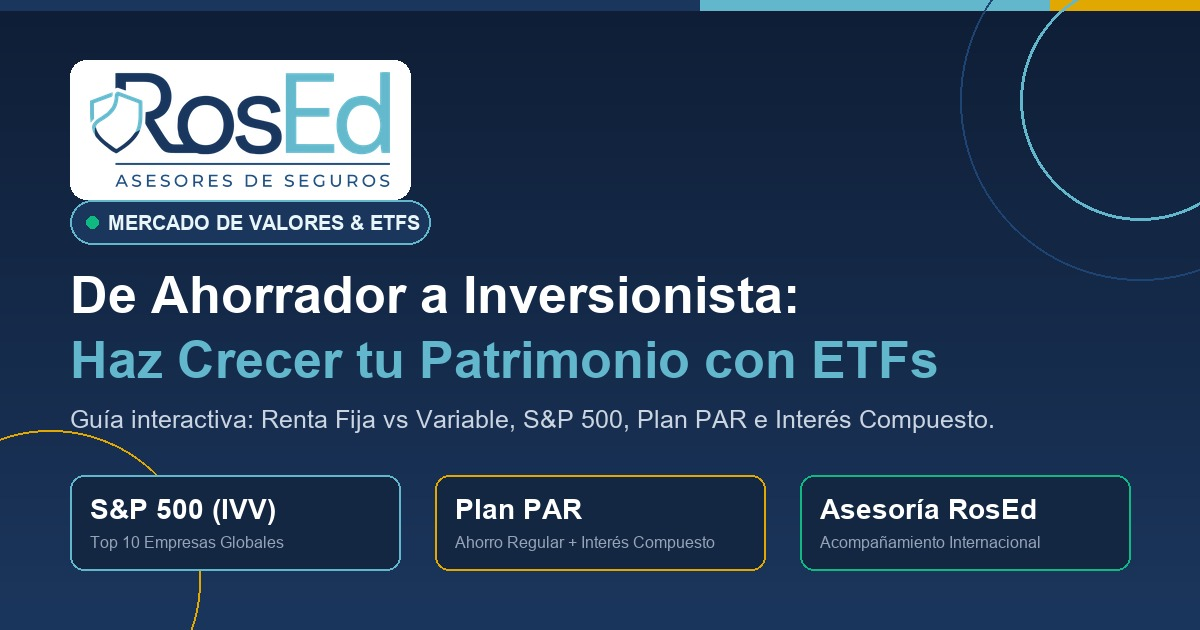
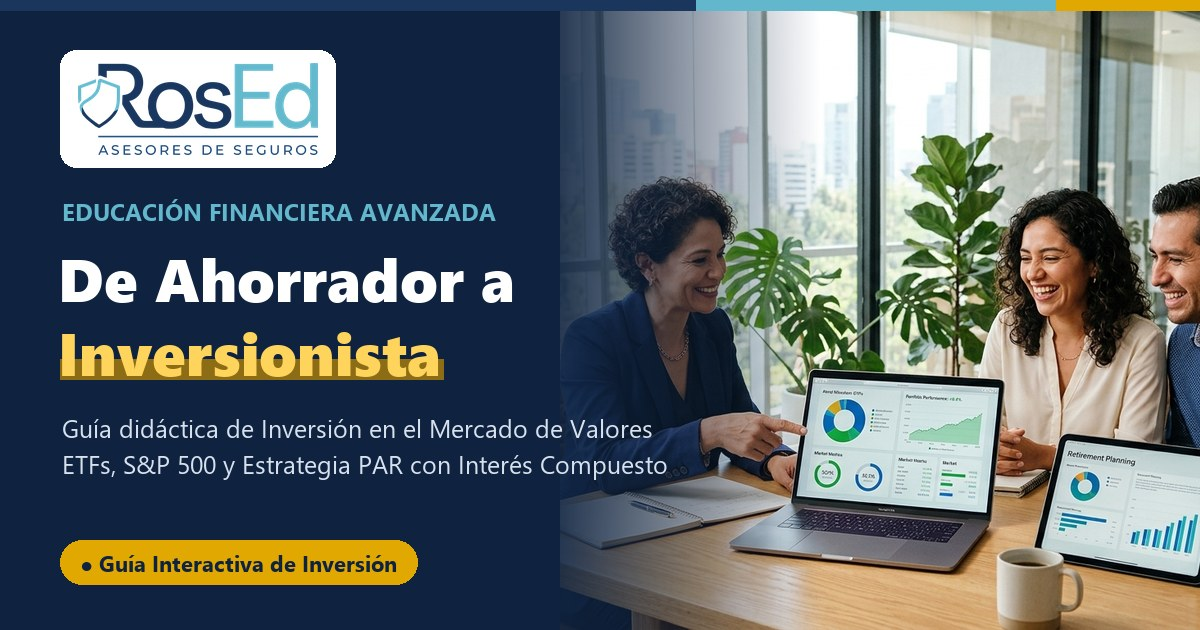
feat: agregar landing interactiva de Induccion al Mercado de Valores y ETFs

diff --git a/public/Mercado-Valores/index.html b/public/Mercado-Valores/index.html
@@ -8,18 +8,20 @@
 
   <!-- Open Graph para vista previa enriquecida en WhatsApp y Redes -->
   <meta property="og:site_name" content="RosEd Asesores de Seguros">
-  <meta property="og:title" content="Educación Financiera: Mercado de Valores & ETFs | RosEd">
-  <meta property="og:description" content="De Ahorrador a Inversionista: Haz crecer tu patrimonio con ETFs, S&P 500, Plan de Ahorro Regular (PAR) y simulador interactivo de interés compuesto.">
-  <meta property="og:image" content="og-mercado-valores.jpg">
-  <meta property="og:image:secure_url" content="og-mercado-valores.jpg">
+  <meta property="og:title" content="De Ahorrador a Inversionista: Mercado de Valores & ETFs | RosEd">
+  <meta property="og:description" content="Guía interactiva: Renta Fija vs Variable, S&P 500, Plan de Ahorro Regular (PAR), interés compuesto y simuladores.">
+  <meta property="og:image" content="https://www.rosedasesores.com/Mercado-Valores/og-mercado-valores.jpg">
+  <meta property="og:image:secure_url" content="https://www.rosedasesores.com/Mercado-Valores/og-mercado-valores.jpg">
   <meta property="og:image:type" content="image/jpeg">
   <meta property="og:image:width" content="1200">
   <meta property="og:image:height" content="630">
+  <meta property="og:url" content="https://www.rosedasesores.com/Mercado-Valores/">
   <meta property="og:type" content="website">
+  <link rel="image_src" href="https://www.rosedasesores.com/Mercado-Valores/og-mercado-valores.jpg">
   <meta name="twitter:card" content="summary_large_image">
-  <meta name="twitter:title" content="Educación Financiera: Mercado de Valores & ETFs | RosEd">
-  <meta name="twitter:description" content="Aprende a invertir en el Mercado de Valores: Renta Fija vs Variable, S&P 500 y Estrategia PAR con simuladores interactivos.">
-  <meta name="twitter:image" content="og-mercado-valores.jpg">
+  <meta name="twitter:title" content="De Ahorrador a Inversionista: Mercado de Valores & ETFs | RosEd">
+  <meta name="twitter:description" content="Guía interactiva: Renta Fija vs Variable, S&P 500, Plan de Ahorro Regular (PAR), interés compuesto y simuladores.">
+  <meta name="twitter:image" content="https://www.rosedasesores.com/Mercado-Valores/og-mercado-valores.jpg">
   <meta name="theme-color" content="#1B365D">
 
   <!-- Tipografía Oficial Google Fonts -->

diff --git a/public/Mercado-Valores/landing_mercado_valores.html b/public/Mercado-Valores/landing_mercado_valores.html
@@ -8,18 +8,20 @@
 
   <!-- Open Graph para vista previa enriquecida en WhatsApp y Redes -->
   <meta property="og:site_name" content="RosEd Asesores de Seguros">
-  <meta property="og:title" content="Educación Financiera: Mercado de Valores & ETFs | RosEd">
-  <meta property="og:description" content="De Ahorrador a Inversionista: Haz crecer tu patrimonio con ETFs, S&P 500, Plan de Ahorro Regular (PAR) y simulador interactivo de interés compuesto.">
-  <meta property="og:image" content="og-mercado-valores.jpg">
-  <meta property="og:image:secure_url" content="og-mercado-valores.jpg">
+  <meta property="og:title" content="De Ahorrador a Inversionista: Mercado de Valores & ETFs | RosEd">
+  <meta property="og:description" content="Guía interactiva: Renta Fija vs Variable, S&P 500, Plan de Ahorro Regular (PAR), interés compuesto y simuladores.">
+  <meta property="og:image" content="https://www.rosedasesores.com/Mercado-Valores/og-mercado-valores.jpg">
+  <meta property="og:image:secure_url" content="https://www.rosedasesores.com/Mercado-Valores/og-mercado-valores.jpg">
   <meta property="og:image:type" content="image/jpeg">
   <meta property="og:image:width" content="1200">
   <meta property="og:image:height" content="630">
+  <meta property="og:url" content="https://www.rosedasesores.com/Mercado-Valores/">
   <meta property="og:type" content="website">
+  <link rel="image_src" href="https://www.rosedasesores.com/Mercado-Valores/og-mercado-valores.jpg">
   <meta name="twitter:card" content="summary_large_image">
-  <meta name="twitter:title" content="Educación Financiera: Mercado de Valores & ETFs | RosEd">
-  <meta name="twitter:description" content="Aprende a invertir en el Mercado de Valores: Renta Fija vs Variable, S&P 500 y Estrategia PAR con simuladores interactivos.">
-  <meta name="twitter:image" content="og-mercado-valores.jpg">
+  <meta name="twitter:title" content="De Ahorrador a Inversionista: Mercado de Valores & ETFs | RosEd">
+  <meta name="twitter:description" content="Guía interactiva: Renta Fija vs Variable, S&P 500, Plan de Ahorro Regular (PAR), interés compuesto y simuladores.">
+  <meta name="twitter:image" content="https://www.rosedasesores.com/Mercado-Valores/og-mercado-valores.jpg">
   <meta name="theme-color" content="#1B365D">
 
   <!-- Tipografía Oficial Google Fonts -->

diff --git a/public/Mercado_Valores/index.html b/public/Mercado_Valores/index.html
@@ -8,18 +8,20 @@
 
   <!-- Open Graph para vista previa enriquecida en WhatsApp y Redes -->
   <meta property="og:site_name" content="RosEd Asesores de Seguros">
-  <meta property="og:title" content="Educación Financiera: Mercado de Valores & ETFs | RosEd">
-  <meta property="og:description" content="De Ahorrador a Inversionista: Haz crecer tu patrimonio con ETFs, S&P 500, Plan de Ahorro Regular (PAR) y simulador interactivo de interés compuesto.">
-  <meta property="og:image" content="og-mercado-valores.jpg">
-  <meta property="og:image:secure_url" content="og-mercado-valores.jpg">
+  <meta property="og:title" content="De Ahorrador a Inversionista: Mercado de Valores & ETFs | RosEd">
+  <meta property="og:description" content="Guía interactiva: Renta Fija vs Variable, S&P 500, Plan de Ahorro Regular (PAR), interés compuesto y simuladores.">
+  <meta property="og:image" content="https://www.rosedasesores.com/Mercado-Valores/og-mercado-valores.jpg">
+  <meta property="og:image:secure_url" content="https://www.rosedasesores.com/Mercado-Valores/og-mercado-valores.jpg">
   <meta property="og:image:type" content="image/jpeg">
   <meta property="og:image:width" content="1200">
   <meta property="og:image:height" content="630">
+  <meta property="og:url" content="https://www.rosedasesores.com/Mercado-Valores/">
   <meta property="og:type" content="website">
+  <link rel="image_src" href="https://www.rosedasesores.com/Mercado-Valores/og-mercado-valores.jpg">
   <meta name="twitter:card" content="summary_large_image">
-  <meta name="twitter:title" content="Educación Financiera: Mercado de Valores & ETFs | RosEd">
-  <meta name="twitter:description" content="Aprende a invertir en el Mercado de Valores: Renta Fija vs Variable, S&P 500 y Estrategia PAR con simuladores interactivos.">
-  <meta name="twitter:image" content="og-mercado-valores.jpg">
+  <meta name="twitter:title" content="De Ahorrador a Inversionista: Mercado de Valores & ETFs | RosEd">
+  <meta name="twitter:description" content="Guía interactiva: Renta Fija vs Variable, S&P 500, Plan de Ahorro Regular (PAR), interés compuesto y simuladores.">
+  <meta name="twitter:image" content="https://www.rosedasesores.com/Mercado-Valores/og-mercado-valores.jpg">
   <meta name="theme-color" content="#1B365D">
 
   <!-- Tipografía Oficial Google Fonts -->

diff --git a/public/Mercado_Valores/landing_mercado_valores.html b/public/Mercado_Valores/landing_mercado_valores.html
@@ -8,18 +8,20 @@
 
   <!-- Open Graph para vista previa enriquecida en WhatsApp y Redes -->
   <meta property="og:site_name" content="RosEd Asesores de Seguros">
-  <meta property="og:title" content="Educación Financiera: Mercado de Valores & ETFs | RosEd">
-  <meta property="og:description" content="De Ahorrador a Inversionista: Haz crecer tu patrimonio con ETFs, S&P 500, Plan de Ahorro Regular (PAR) y simulador interactivo de interés compuesto.">
-  <meta property="og:image" content="og-mercado-valores.jpg">
-  <meta property="og:image:secure_url" content="og-mercado-valores.jpg">
+  <meta property="og:title" content="De Ahorrador a Inversionista: Mercado de Valores & ETFs | RosEd">
+  <meta property="og:description" content="Guía interactiva: Renta Fija vs Variable, S&P 500, Plan de Ahorro Regular (PAR), interés compuesto y simuladores.">
+  <meta property="og:image" content="https://www.rosedasesores.com/Mercado-Valores/og-mercado-valores.jpg">
+  <meta property="og:image:secure_url" content="https://www.rosedasesores.com/Mercado-Valores/og-mercado-valores.jpg">
   <meta property="og:image:type" content="image/jpeg">
   <meta property="og:image:width" content="1200">
   <meta property="og:image:height" content="630">
+  <meta property="og:url" content="https://www.rosedasesores.com/Mercado-Valores/">
   <meta property="og:type" content="website">
+  <link rel="image_src" href="https://www.rosedasesores.com/Mercado-Valores/og-mercado-valores.jpg">
   <meta name="twitter:card" content="summary_large_image">
-  <meta name="twitter:title" content="Educación Financiera: Mercado de Valores & ETFs | RosEd">
-  <meta name="twitter:description" content="Aprende a invertir en el Mercado de Valores: Renta Fija vs Variable, S&P 500 y Estrategia PAR con simuladores interactivos.">
-  <meta name="twitter:image" content="og-mercado-valores.jpg">
+  <meta name="twitter:title" content="De Ahorrador a Inversionista: Mercado de Valores & ETFs | RosEd">
+  <meta name="twitter:description" content="Guía interactiva: Renta Fija vs Variable, S&P 500, Plan de Ahorro Regular (PAR), interés compuesto y simuladores.">
+  <meta name="twitter:image" content="https://www.rosedasesores.com/Mercado-Valores/og-mercado-valores.jpg">
   <meta name="theme-color" content="#1B365D">
 
   <!-- Tipografía Oficial Google Fonts -->
